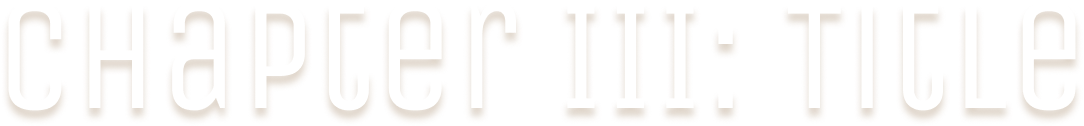
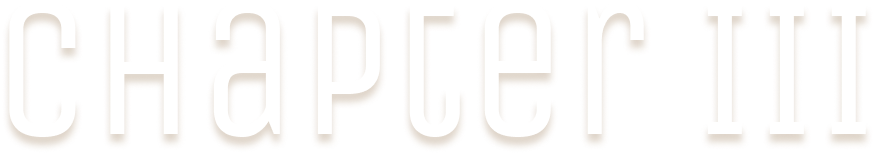
small UI fixes

diff --git a/Physics/Physics/core/src/main/java/edu/cornell/cis3152/physics/LevelSelectScene.java b/Physics/Physics/core/src/main/java/edu/cornell/cis3152/physics/LevelSelectScene.java
@@ -75,7 +75,7 @@ public class LevelSelectScene implements Screen {
     private void createBasicUI() {
         float screenWidth = Gdx.graphics.getWidth();
         float screenHeight = Gdx.graphics.getHeight();
-        doorWidth = screenWidth * 0.2f;
+        doorWidth = screenWidth * 0.18f;
         doorHeight = screenHeight * 0.35f;
         spacing = screenWidth * 0.001f;
 
@@ -90,7 +90,7 @@ public class LevelSelectScene implements Screen {
         chap3TitleTexture = new Texture(Gdx.files.internal("ui/chap3_title.png"));
         chapLabel = new Image(chapTitleTexture);
         chapLabel.setSize(screenWidth * 0.2f, screenHeight * 0.05f);
-        float verticalSpacing = screenHeight * 0.02f;
+        float verticalSpacing = screenHeight * 0.057f;
         chapLabel.setPosition((screenWidth - screenWidth * 0.2f) / 2f,
             chamberLabel.getY() - screenHeight * 0.05f - verticalSpacing);
         stage.addActor(chapLabel);
@@ -172,7 +172,7 @@ public class LevelSelectScene implements Screen {
         Texture l_arrow_hov_text = new Texture(Gdx.files.internal("ui/l_arrow_click.png"));
         Image l_arrow = new Image(l_arrow_text);
         l_arrow.setSize(screenWidth * 0.05f, screenHeight * 0.05f);
-        l_arrow.setPosition(screenWidth * 0.01f, screenHeight * 0.8f);
+        l_arrow.setPosition(screenWidth * 0.01f, screenHeight * 0.30f);
         stage.addActor(l_arrow);
 
         // Right arrow textures and image
@@ -180,7 +180,7 @@ public class LevelSelectScene implements Screen {
         Texture r_arrow_hov_text = new Texture(Gdx.files.internal("ui/r_arrow_click.png"));
         Image r_arrow = new Image(r_arrow_text);
         r_arrow.setSize(screenWidth * 0.05f, screenHeight * 0.05f);
-        r_arrow.setPosition(screenWidth * 0.94f, screenHeight * 0.8f);
+        r_arrow.setPosition(screenWidth * 0.94f, screenHeight * 0.30f);
         stage.addActor(r_arrow);
 
         // Create drawables for hover effects
@@ -266,18 +266,16 @@ public class LevelSelectScene implements Screen {
         float screenWidth = Gdx.graphics.getWidth();
         float screenHeight = Gdx.graphics.getHeight();
 
-        // Left arrow textures and image
         Texture backButtText = new Texture(Gdx.files.internal("ui/back_butt.png"));
         Texture settButtText = new Texture(Gdx.files.internal("ui/setting.png"));
         Image backButt = new Image(backButtText);
-        backButt.setSize(screenWidth * 0.05f, screenHeight * 0.05f);
+        backButt.setSize(screenWidth * 0.075f, screenHeight * 0.075f);
         backButt.setPosition(screenWidth * 0.01f, screenHeight * 0.9f);
         stage.addActor(backButt);
 
-        // Right arrow textures and image
         Image settButt = new Image(settButtText);
-        settButt.setSize(screenWidth * 0.05f, screenHeight * 0.05f);
-        settButt.setPosition(screenWidth * 0.94f, screenHeight * 0.9f);
+        settButt.setSize(screenWidth * 0.075f, screenHeight * 0.075f);
+        settButt.setPosition(screenWidth * 0.915f, screenHeight * 0.9f);
         stage.addActor(settButt);
 
         // Create drawables for hover effects
